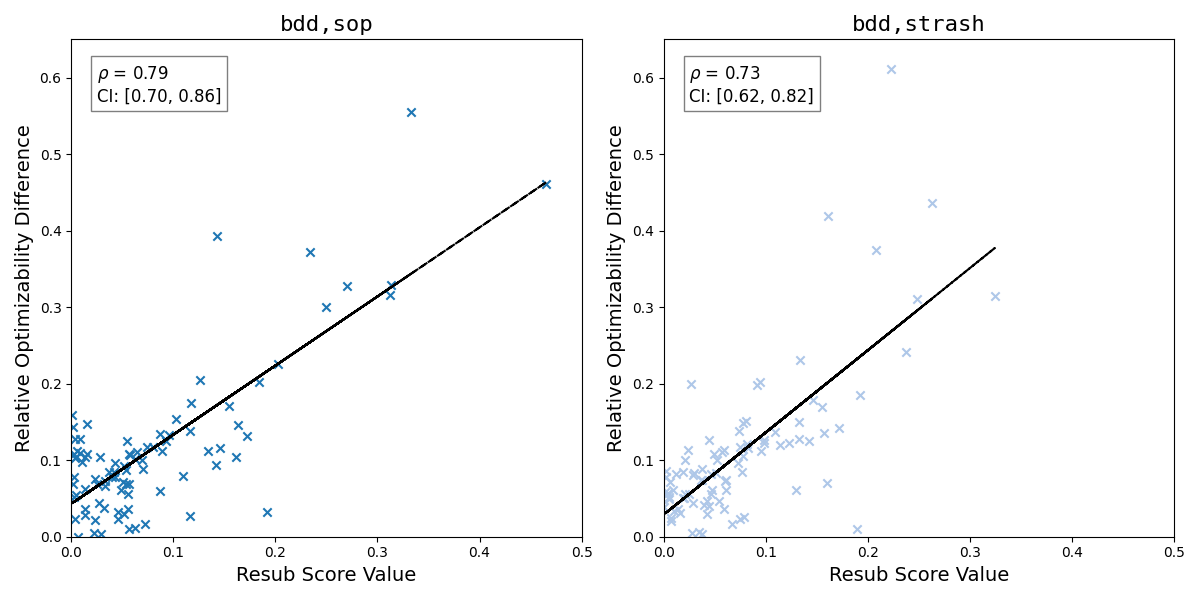
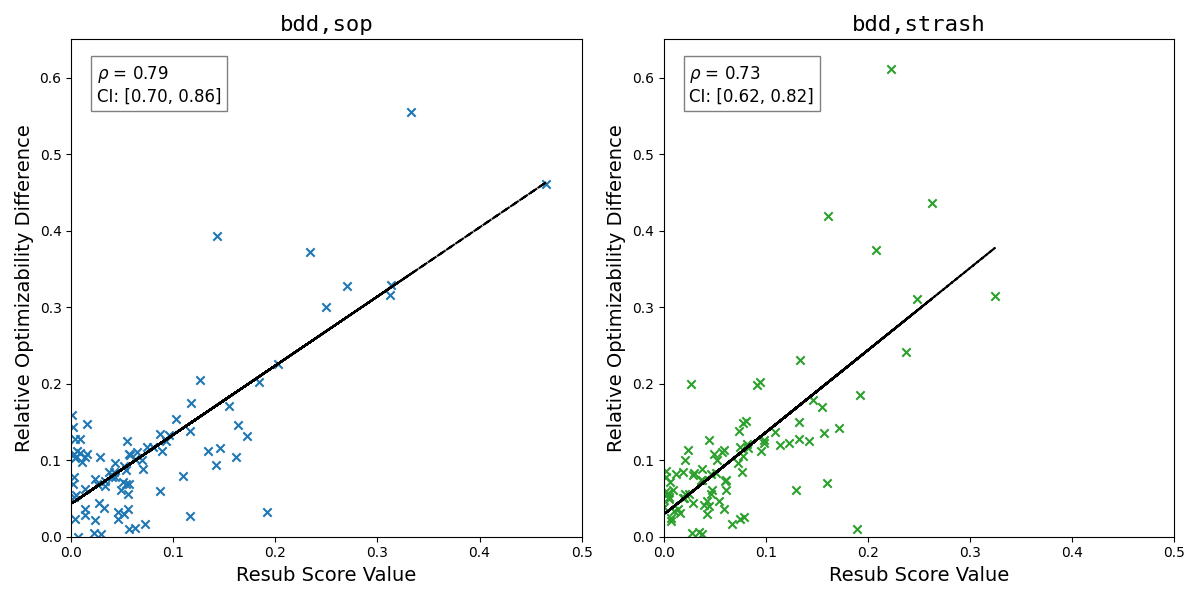
added final paper figs

Changed region(s): [[0.555, 0.69, 0.6783, 0.9], [0.6783, 0.66, 0.7092, 0.69], [0.6167, 0.63, 0.6475, 0.66]]

diff --git a/plots/final_plot.py b/plots/final_plot.py
@@ -28,15 +28,16 @@ selected_columns = [x_data.columns[4], x_data.columns[5]]
 fig, axes = plt.subplots(nrows=1, ncols=2, figsize=(12, 6))  # Adjust figure size for two plots
 
 # Define colors for the two plots
-colormap = plt.get_cmap('tab20')  # Color map
+colormap = plt.get_cmap('tab10')  # Color map
 
+colors = [colormap(0), colormap(2)]
 # Loop through selected columns and plot
 for idx, column in enumerate(selected_columns):
     x_vals = x_data[column]
     y_vals = y_data[column]
 
     # Scatter plot for each column
-    axes[idx].scatter(x_vals, y_vals, marker='x', color=colormap(idx), label=column)
+    axes[idx].scatter(x_vals, y_vals, marker='x', color=colors[idx], label=column)
 
     # Fit a linear trendline
     slope, intercept, r_value, p_value, std_err = stats.linregress(x_vals, y_vals)
